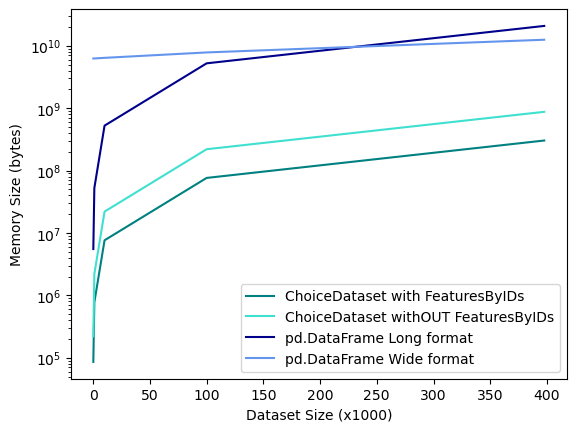
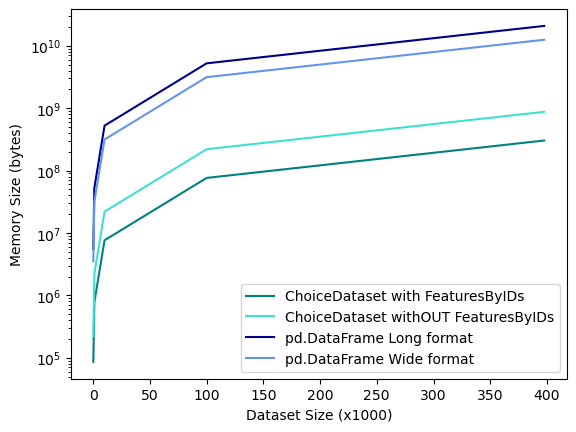
FIX: wide df memory print

diff --git a/docs/paper/paper.md b/docs/paper/paper.md
@@ -63,9 +63,9 @@ Choice modelling is a natural tool for retailers or marketplaces to understand t
 
 `Choice-Learn`'s ChoiceDataset is built specifically to handle large choice datasets. It mainly relies on NumPy [@Harris:2020] with the objective to limit the memory footprint of the dataset. The key idea is to minimize features repetition and to rebuild the full data structure only for batches of the dataset.
 
-- *Features splitting:* We define 'items_features' that describe each available alternative and 'shared_features' that are common to all alternatives for one given choice. These shared features usually change from one choice to another and can represent customer attributes for example.
+- *Features splitting:* We define 'items_features' that describe each available alternative and 'shared_features' that are common to all alternatives for one given choice. These shared features usually change from one choice to another and can represent customer attributes for example. This split let us avoid repeating these 'shared_features' for each alternative as it is neede with a Long format.
 
-- *Features by IDs:* We allow to store features in specific object and to reference it only by its ID in the dataset. These features are stacked with the others only by batches. It is particularly efficient for features that are repeated in the dataset. As an example, let's take a case where we have a few different stores represented by features. Those features never changing, we can store them in an object and only reference the id of store where the choice happens in the dataset. Then when a batch of data is retrieved, the full features matrix is reconstitued from the id. On \autoref{fig:fbi} an example illustrates its functioning.
+- *Features by IDs:* We allow to store features in specific object and to reference it only by its ID in the dataset. These features are stacked with the others only in batches. It is particularly efficient for features that are repeated in the dataset. As an example, let's take a case where we have a few different stores represented by their surface, position, etc... Those features never changing, they can be stored in an object and the store where the choice happens referenced by some id in the dataset. Then when a batch of data is retrieved, the full features matrix is reconstitued from the id. On \autoref{fig:fbi} an example illustrates its functioning.
 
 ## Parametrized and Machine-Learning based models
 > Naming still unsatisfactory imo (Parametrized/Interpretable vs ?)
@@ -85,9 +85,9 @@ Finally, this TensorFlow backbone ensures an efficient use of the models in a pr
 
 ## RAM usage comparison
 
-![RAM usage with and without FeaturesByIDs. \label{fig:ram_usage}](../illustrations/fbid_RAM.png){ width=40% } 
+![RAM usage with and without FeaturesByIDs. \label{fig:ram_usage}](../illustrations/fbid_RAM.png){ width=50% } 
 
-![Memory usage comparison on the Expedia Dataset. \label{fig:exp_ram_usage}](../illustrations/expedia_RAM.png){ width=40% }
+![Memory usage comparison on the Expedia Dataset. \label{fig:exp_ram_usage}](../illustrations/expedia_RAM.png){ width=50% }
 
 We conduct a small study on datasets memory usage in order to showcase the efficiency of Features by IDs provided by `Choice-Learn`. We consider a case where we have a feature that repeats itself over the dataset. For example if we represent a location with one-hot encoding, the different locations can be represented by a matrix of shape (n_locations, n_locations) that are repeated over the dataset of size dataset_size. On \autoref{fig:ram_usage} we compare the memory usage for different dataset sizes and n_locations=10 and 100. It shows how `Choice-Learn` can save several orders of magnitude of bytes in memory usage.
 
